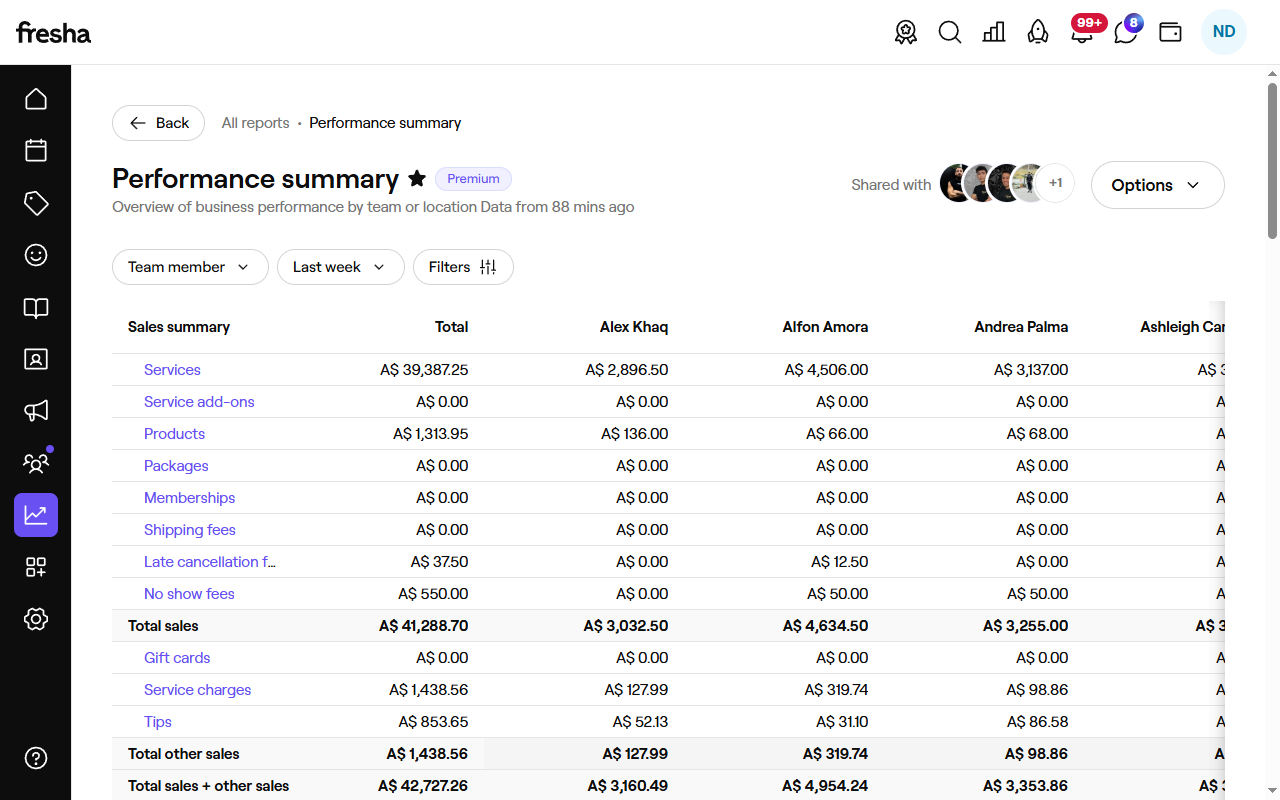
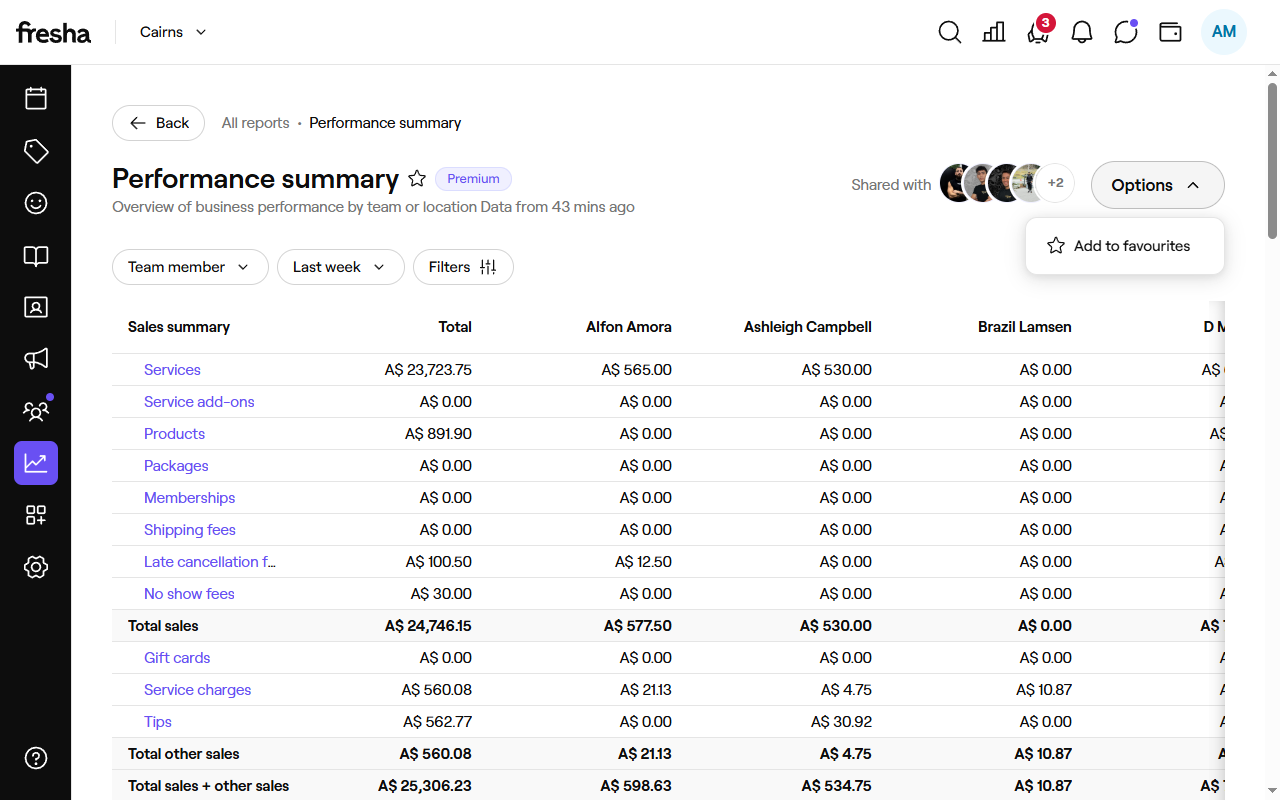
fix: skip OLD RISING SUN/WULGURU locations; update Alfon commission location name
- Cairns skip_locations: add OLD RISING SUN and OLD WULGURU (renamed from previous names)
- LOCATION_TO_ORG: add Diamond Barbers Rising Sun (Townsville, dropped New suffix)
- MANAGER_LOCATIONS: Alfon Amora now uses Diamond Barbers Rising Sun (renamed)
- xero_create_payrun.py LOCATION_COMMISSION: same Alfon rename

diff --git a/agent/weekly_sync.py b/agent/weekly_sync.py
@@ -76,7 +76,8 @@ ACCOUNTS = [
         "night_markets_loc":   "Diamond Barbers Night Markets",
         "night_markets_loc_id": "1472834",
         # These locations now live in the Townsville workspace — skip them here
-        "skip_locations":      {"Diamond Barbers Rising Sun", "Diamond Barbers Wulguru"},
+        "skip_locations":      {"Diamond Barbers Rising Sun", "Diamond Barbers Wulguru",
+                               "OLD RISING SUN", "OLD WULGURU"},
     },
     {
         "label":               "QLD (Townsville)",
@@ -124,6 +125,7 @@ LOCATION_TO_ORG = {
     "Diamond Barbers Night Markets":    "Diamond Barbers Cairns",
     "Diamond Barbers Wulguru":          "Diamond Barbers Cairns",
     # Townsville workspace locations
+    "Diamond Barbers Rising Sun":        "Diamond Barbers Townsville",
     "Diamond Barbers Rising Sun New":   "Diamond Barbers Townsville",
     "Diamond Barbers Wulguru New":      "Diamond Barbers Townsville",
     "Diamond Barbers | Garbutt":        "Diamond Barbers Townsville",
@@ -140,7 +142,7 @@ MANAGER_LOCATIONS = {
     "Jairo Espinosa":      ["Diamond Barbers - DARWIN CBD"],
     "Jerry Guevarra":      ["Diamond Barbers Showgrounds", "Diamond Barbers Night Markets",
                             "Diamond Barbers Northern Beaches"],
-    "Alfon Amora":         ["Diamond Barbers Rising Sun New"],
+    "Alfon Amora":         ["Diamond Barbers Rising Sun"],
     "Brazil Lamsen":       ["Diamond Barbers Wulguru New"],
 }
 

diff --git a/agent/xero_create_payrun.py b/agent/xero_create_payrun.py
@@ -122,7 +122,7 @@ LOCATION_COMMISSION = {
     "jerry guevarra":       ["Diamond Barbers Showgrounds",
                              "Diamond Barbers Night Markets",
                              "Diamond Barbers Northern Beaches"],
-    "alfon amora":          ["Diamond Barbers Rising Sun New"],
+    "alfon amora":          ["Diamond Barbers Rising Sun"],
 }
 
 
